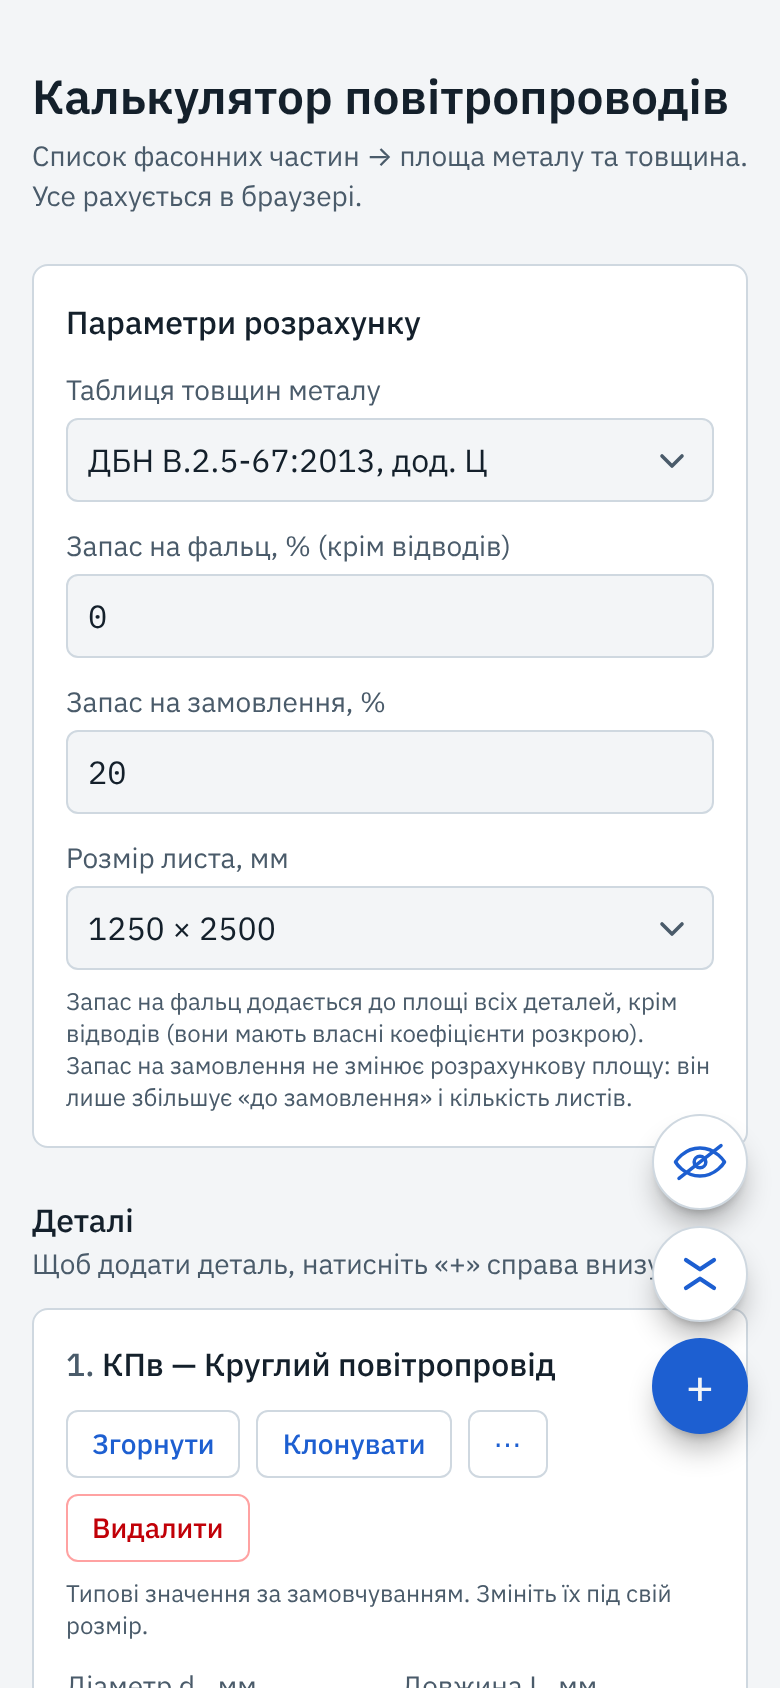
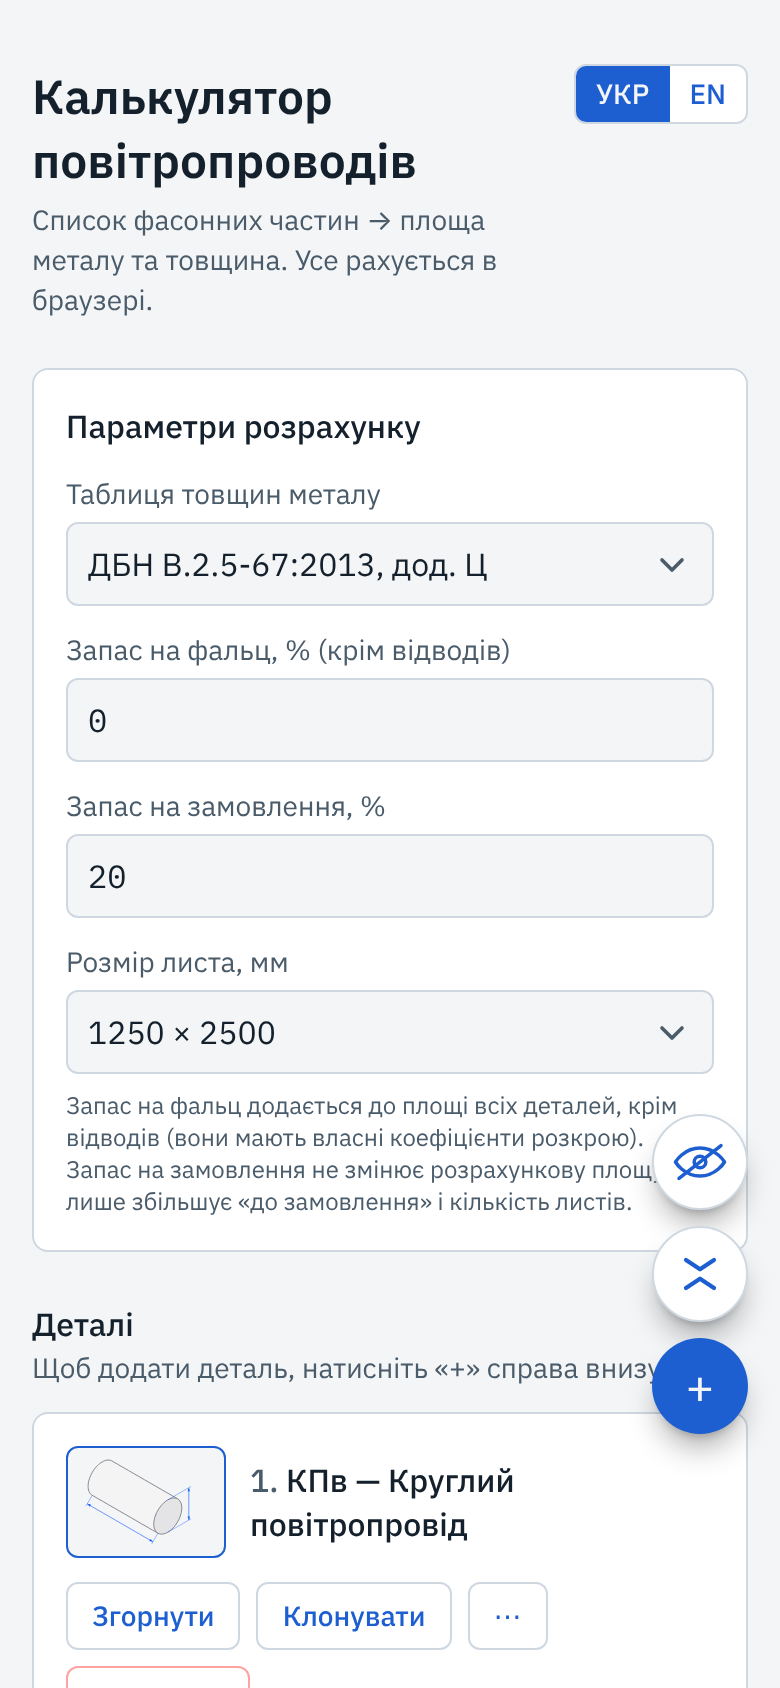
feat(ui): sketch thumbnail in the card opens the full isometric sketch
Claude-Session: https://claude.ai/code/session_0157kQd6LFDcKoh4utTUZLX6

diff --git a/src/components/calculator/FittingSketch.tsx b/src/components/calculator/FittingSketch.tsx
@@ -178,12 +178,12 @@ function arrow(tip: [number, number], from: [number, number]) {
 }
 
 /** Isometric view: faces turned to the viewer, hidden edges dashed, dimension lines with extension lines and arrows, the letter beside them. */
-function Iso({ kind, label }: { kind: FittingKind; label: string }) {
+function Iso({ kind, label, thumb = false }: { kind: FittingKind; label: string; thumb?: boolean }) {
   const { items, box } = isoDrawing(kind);
   const pts = (q: [number, number][]) => q.map(([x, y]) => `${x.toFixed(1)},${y.toFixed(1)}`).join(" ");
   return (
     // one scale for every kind: the width follows the drawing, so letters stay the same size
-    <svg viewBox={box.map((v) => v.toFixed(1)).join(" ")} role="img" aria-label={label} className="mx-auto h-auto max-w-full" style={{ width: `${(box[2] * isoScale).toFixed(0)}px` }}>
+    <svg viewBox={box.map((v) => v.toFixed(1)).join(" ")} role="img" aria-label={label} className={thumb ? "h-full w-full [&_text]:hidden" : "mx-auto h-auto max-w-full"} style={thumb ? undefined : { width: `${(box[2] * isoScale).toFixed(0)}px` }}>
       {items.map((i, k) => {
         switch (i.type) {
           case "face":
@@ -224,12 +224,12 @@ function Iso({ kind, label }: { kind: FittingKind; label: string }) {
   );
 }
 
-/** Schematic of a fitting: isometric, side view or cross-section ("в профіль"). Not to scale; labels sit beside the drawing, never on it. */
-export function FittingSketch({ kind, view = "side" }: { kind: FittingKind; view?: SketchView }) {
+/** Schematic of a fitting (`thumb`: the isometric view as a small preview without letters, fills its box): isometric, side view or cross-section ("в профіль"). Not to scale; labels sit beside the drawing, never on it. */
+export function FittingSketch({ kind, view = "side", thumb = false }: { kind: FittingKind; view?: SketchView; thumb?: boolean }) {
   const { dict } = useI18n();
   const viewTitle = { side: dict.sketch.sideTitle, profile: dict.sketch.profileTitle, iso: dict.sketch.isoTitle };
   const label = `${kindTitle(kind, dict)}: ${viewTitle[view]}`;
-  if (view === "iso") return <Iso kind={kind} label={label} />;
+  if (view === "iso") return <Iso kind={kind} label={label} thumb={thumb} />;
   return (
     <svg viewBox="0 0 300 184" role="img" aria-label={label} className="mx-auto h-auto w-full max-w-sm">
       {view === "side" ? <Side kind={kind} /> : <Profile kind={kind} />}

diff --git a/src/components/calculator/FittingCard.tsx b/src/components/calculator/FittingCard.tsx
@@ -57,7 +57,17 @@ export function FittingCard({ row, index, justAdded, showSketch, collapsed, onTo
   return (
     <div id={`fitting-${row.id}`} className={`${cardClass} col-span-full scroll-mt-16 ${justAdded ? "flash-card" : ""}`}>
       <div className="mb-4 flex flex-wrap items-start justify-between gap-3">
-        <h3 className="min-w-0 flex-1 text-base font-medium leading-snug">
+        <button
+          type="button"
+          className={`h-14 w-20 shrink-0 sm:h-16 sm:w-24 rounded-md border bg-background p-1 hover:border-accent ${showSketch ? "border-accent" : "border-line"}`}
+          onClick={onToggleSketch}
+          aria-expanded={showSketch}
+          aria-label={showSketch ? dict.sketch.hide : dict.sketch.show}
+          title={showSketch ? dict.sketch.hide : dict.sketch.show}
+        >
+          <FittingSketch kind={row.kind} view="iso" thumb />
+        </button>
+        <h3 className="min-w-0 flex-1 self-center text-base font-medium leading-snug">
           <span className="text-muted">{index + 1}.</span> {kindTitle(row.kind, dict)}
         </h3>
         <div className="flex max-w-full flex-wrap gap-2">
@@ -104,18 +114,12 @@ export function FittingCard({ row, index, justAdded, showSketch, collapsed, onTo
           </select>
         </label>
       </div>
-      <button
-        type="button"
-        className={`mt-4 ${buttonClass}`}
-        aria-expanded={showSketch}
-        onClick={onToggleSketch}
-      >
-        {showSketch ? dict.sketch.hide : dict.sketch.show}
-      </button>
       {showSketch && (
         <figure className="mt-4 flex flex-col rounded-md border border-line bg-background p-4">
-          <strong className="text-[13px] font-semibold uppercase tracking-wide text-muted">{dict.sketch.isoTitle}</strong>
-          <FittingSketch kind={row.kind} view="iso" />
+          <button type="button" className="flex flex-col text-left" onClick={onToggleSketch} aria-expanded={true} title={dict.sketch.hide}>
+            <strong className="text-[13px] font-semibold uppercase tracking-wide text-muted">{dict.sketch.isoTitle}</strong>
+            <FittingSketch kind={row.kind} view="iso" />
+          </button>
           <figcaption className="pt-2 text-sm leading-snug text-muted">
             {isoLegend(row.kind, dict).join("; ")}. {dict.sketch.note}
           </figcaption>

diff --git a/CLAUDE.md b/CLAUDE.md
@@ -8,7 +8,7 @@ Stack: Next.js (App Router), TypeScript strict, Vitest, Zod 4. Core logic is pla
 Engineering decisions: one ADR per file in `docs/adr/`. `docs/decisions.md` is the short index: the ADR list, known deviations from the Excel, the `TODO(confirm)` register and deferred work. The engineer's answers and the Excel template bugs: `docs/engineer-answers.md`.
 
 ## Status
-Stage 0 (fittings geometry, pressure drop) and stage 1 core (thickness table, elbow waste factor, air properties, Zod validation, `assembleSection`) are done and merged. Sheet list by thickness (metal m2 per thickness, `sheetList`) is done. First UI is done (split into focused components + `useCalculator` hook): one client-side calculator page (Ukrainian by default, English via the УКР / EN switch in the header, remembered in `localStorage`, see ADR 0039), no backend. Deployed on Vercel (owner's account, Hobby plan, auto-deploy from `main`, previews per PR); Vercel Web Analytics is wired in (`<Analytics />` in `src/app/layout.tsx`, package `@vercel/analytics`, the owner enables it in the Vercel dashboard). Elbow radius is now suggested from the size in the form (round centre-line R = 1.0 D, rect inner R = 0.5 W, `config.elbowRadius`, `TODO(confirm)`; the field follows the size until the user types over it). During the beta the page opens with one example row of every fitting kind (`form/sample-rows.ts`) and the sketches open by default. Each fitting card has a "Показати схему" button that toggles one isometric sketch of its kind (inline SVG, line style, labels beside the drawing, a legend names the letters, see ADR 0033; the older side view and cross-section stay in the code, unused by the card). Inputs in a row stay aligned when a label wraps (the input is pushed to the bottom of its field). Fittings are added from an always-visible side panel (desktop: sticky rail of kind groups with a list beside it; phone: quick buttons and a bottom sheet with search, see ADR 0031); a card shows its kind as a title and changes it through a «⋯» menu. Input warnings (aspect ratio, size over 2000 mm, large elbow radius) are done. Tees and crosses (metal area, 8 kinds, see ADR 0021) are done. Standalone branch-in collars (врізки Квр, Пвр: `roundTap`, `rectTap`, metal area only, see ADR 0026) are done. The engineer's 2026-10-19 answers are in: ДБН thickness table by default (engineer's table selectable), user-set seam allowance for non-elbows, reducer friction by the mean diameter, order margin (default 20 %), sheet size and sheet count (settings block in the UI). The UI shows areas only (owner, 2026-10-19): pressure losses, centerline length, air parameters, airflow and zeta are hidden, the core and its tests are unchanged. The README is the portfolio page (English, with a Ukrainian copy `README.uk.md` and language links at the top; keep both in sync): what the tool does, live link, screenshots in `docs/images/` (taken from a production build at 1440 x 900 and a 390 px phone), supported fittings, how the numbers are verified, stack and commands; refresh the screenshots when the UI changes visibly (last retaken 2026-11-03, with insulation and prices). The area formulas were cross-checked against ВСН 353-86, ДСТУ Б Д.2.4-15:2014 and online calculators (2026-10-27); the rect-to-round transition is now the exact layout (ADR 0035), the other kinds agree or differ only by documented choices (slant instead of the axial length, smooth instead of segmented round elbows). Insulation area is in as a beta (ADR 0037): one material per row from the Excel's six, outer surface = metal geometry with each size + 2t, elbows with the cutting coefficient, caps the end plate only; per-row column, a list per material and a total. Price is in (ADR 0038): the user types UAH per m² for each thickness in the metal list and each material in the insulation list (empty = no price, nothing preset); metal is priced on the area to order (margin included), insulation on its computed area; cost per line and totals (metal, insulation, all), unpriced lines are counted, not free. Next, in the engineer's order: aerodynamics as a separate mode; XLSX export waits for the engineer's reference files.
+Stage 0 (fittings geometry, pressure drop) and stage 1 core (thickness table, elbow waste factor, air properties, Zod validation, `assembleSection`) are done and merged. Sheet list by thickness (metal m2 per thickness, `sheetList`) is done. First UI is done (split into focused components + `useCalculator` hook): one client-side calculator page (Ukrainian by default, English via the УКР / EN switch in the header, remembered in `localStorage`, see ADR 0039), no backend. Deployed on Vercel (owner's account, Hobby plan, auto-deploy from `main`, previews per PR); Vercel Web Analytics is wired in (`<Analytics />` in `src/app/layout.tsx`, package `@vercel/analytics`, the owner enables it in the Vercel dashboard). Elbow radius is now suggested from the size in the form (round centre-line R = 1.0 D, rect inner R = 0.5 W, `config.elbowRadius`, `TODO(confirm)`; the field follows the size until the user types over it). During the beta the page opens with one example row of every fitting kind (`form/sample-rows.ts`) and the sketches open by default. Each fitting card starts with a thumbnail of its isometric sketch; a click opens the full sketch inside the card and a second click closes it (ADR 0040; it replaced the "Показати схему" button); the sketch is an inline SVG (line style, labels beside the drawing, a legend names the letters, see ADR 0033; the older side view and cross-section stay in the code, unused by the card). Inputs in a row stay aligned when a label wraps (the input is pushed to the bottom of its field). Fittings are added from an always-visible side panel (desktop: sticky rail of kind groups with a list beside it; phone: quick buttons and a bottom sheet with search, see ADR 0031); a card shows its kind as a title and changes it through a «⋯» menu. Input warnings (aspect ratio, size over 2000 mm, large elbow radius) are done. Tees and crosses (metal area, 8 kinds, see ADR 0021) are done. Standalone branch-in collars (врізки Квр, Пвр: `roundTap`, `rectTap`, metal area only, see ADR 0026) are done. The engineer's 2026-10-19 answers are in: ДБН thickness table by default (engineer's table selectable), user-set seam allowance for non-elbows, reducer friction by the mean diameter, order margin (default 20 %), sheet size and sheet count (settings block in the UI). The UI shows areas only (owner, 2026-10-19): pressure losses, centerline length, air parameters, airflow and zeta are hidden, the core and its tests are unchanged. The README is the portfolio page (English, with a Ukrainian copy `README.uk.md` and language links at the top; keep both in sync): what the tool does, live link, screenshots in `docs/images/` (taken from a production build at 1440 x 900 and a 390 px phone), supported fittings, how the numbers are verified, stack and commands; refresh the screenshots when the UI changes visibly (last retaken 2026-11-07, with the sketch thumbnails). The area formulas were cross-checked against ВСН 353-86, ДСТУ Б Д.2.4-15:2014 and online calculators (2026-10-27); the rect-to-round transition is now the exact layout (ADR 0035), the other kinds agree or differ only by documented choices (slant instead of the axial length, smooth instead of segmented round elbows). Insulation area is in as a beta (ADR 0037): one material per row from the Excel's six, outer surface = metal geometry with each size + 2t, elbows with the cutting coefficient, caps the end plate only; per-row column, a list per material and a total. Price is in (ADR 0038): the user types UAH per m² for each thickness in the metal list and each material in the insulation list (empty = no price, nothing preset); metal is priced on the area to order (margin included), insulation on its computed area; cost per line and totals (metal, insulation, all), unpriced lines are counted, not free. Next, in the engineer's order: aerodynamics as a separate mode; XLSX export waits for the engineer's reference files.
 
 ## Code map (`src/lib/`)
 - `calc/units.ts` - `mmToM`, `m3hToM3s`, `degToRad`; the only place that converts.
@@ -32,7 +32,7 @@ Stage 0 (fittings geometry, pressure drop) and stage 1 core (thickness table, el
 - `src/components/i18n.tsx` - `I18nProvider` / `useI18n()` -> `{ lang, dict, fmt, setLang }` (language from `localStorage` via `useSyncExternalStore`, server renders Ukrainian; keeps `<html lang>` and the tab title in step). Components take `dict` and `fmt` from the hook, never import `uk` directly; plain helpers take the dictionary as a parameter.
 - `src/components/Calculator.tsx` - the page (client component): wraps the blocks in `I18nProvider`, header with `LangSwitch`, no logic. `src/app/page.tsx` only renders it.
 - `form/kind-groups.ts` - `kindGroups` (7 groups of kinds for the side panel), `quickKinds`, `insertIndex` (where a new row of a kind goes), `searchKinds`.
-- `src/components/calculator/` - the blocks (new: `KindPalette` = `KindRail` + `Sheet`, `PhoneActions` = the phone's round buttons at the right edge (add menu, view toggles, to top), `KindGlyph`, `KindMenu` change-kind menu, `useDismiss`, `useCardView` = sketch/fold view state shared by the list and the rail buttons): `useCalculator.ts` (hook: rows and settings state, `calculate` fed with fixed hidden flow and air since losses are not shown, row actions), `SettingsPanel`, `FittingList` (view state only; rows of one kind are grouped into a titled section when a kind repeats; per-card sketch open / folded, the global «show/hide all schemes» and «fold/expand all» buttons; folded cards are tiles in a 1-3 column grid, open cards span the full width) > `FittingCard` (one row, or a tile when folded; the button opens `FittingSketch` with `view="iso"`; `iso-sketch.ts` = `isoDrawing(kind)`: isometric projection of simple solids into faces, edges and dimension items with a fitted viewBox; `sketch-spec.ts` maps kind -> shape, round/rect ends and the legends incl. `isoLegend`; the side / profile views remain), `ResultsTable` (with the insulation column), `Totals` (areas and costs), `SheetList` and `InsulationList` (each with a price input and a cost column, `PriceInput`), shared `TextField`, `ErrorList` (also `WarningList`), `format.ts` (`fmt`, `rowTitle`), `styles.ts` (Tailwind class strings). Components take props only; calculation stays in `src/lib`.
+- `src/components/calculator/` - the blocks (new: `KindPalette` = `KindRail` + `Sheet`, `PhoneActions` = the phone's round buttons at the right edge (add menu, view toggles, to top), `KindGlyph`, `KindMenu` change-kind menu, `useDismiss`, `useCardView` = sketch/fold view state shared by the list and the rail buttons): `useCalculator.ts` (hook: rows and settings state, `calculate` fed with fixed hidden flow and air since losses are not shown, row actions), `SettingsPanel`, `FittingList` (view state only; rows of one kind are grouped into a titled section when a kind repeats; per-card sketch open / folded, the global «show/hide all schemes» and «fold/expand all» buttons; folded cards are tiles in a 1-3 column grid, open cards span the full width) > `FittingCard` (one row, or a tile when folded; the header thumbnail (`FittingSketch` `thumb`) opens `FittingSketch` with `view="iso"`; `iso-sketch.ts` = `isoDrawing(kind)`: isometric projection of simple solids into faces, edges and dimension items with a fitted viewBox; `sketch-spec.ts` maps kind -> shape, round/rect ends and the legends incl. `isoLegend`; the side / profile views remain), `ResultsTable` (with the insulation column), `Totals` (areas and costs), `SheetList` and `InsulationList` (each with a price input and a cost column, `PriceInput`), shared `TextField`, `ErrorList` (also `WarningList`), `format.ts` (`fmt`, `rowTitle`), `styles.ts` (Tailwind class strings). Components take props only; calculation stays in `src/lib`.
 - `validation/` - `createSchemas(config)`, `fittingSchema`, `ductSectionSchema`, `airInputSchema`, `sheetListItemSchema` (`{ fitting, quantity }`), `sheetListSchema` (array of those), `validate`. Errors are stable codes (`codes.ts`), never human text.
 
 ## Commands

diff --git a/README.uk.md b/README.uk.md
@@ -18,7 +18,7 @@
 - **Площа утеплювача (бета).** Для кожної позиції обирається матеріал утеплювача (шість з таблиці інженера); зовнішня поверхня шару = геометрія металу, де кожен розмір збільшено на дві товщини шару. Площа кожної позиції, відомість за матеріалами і підсумок. Модель буде уточнено з інженером.
 - **Оцінка вартості.** Введіть власну ціну за м² (грн) для кожної товщини металу та матеріалу утеплювача: вартість кожного рядка і разом. Метал рахується від площі до замовлення. Цін за замовчуванням немає.
 - **Попередження щодо введених даних.** Незвичні, але допустимі значення (співвідношення сторін від 3 і понад 6,3, сторона понад 2000 мм, великий радіус відводу) позначаються і ніколи не змінюються.
-- **Схеми.** Кожна картка деталі показує ізометричну схему з літерами розмірів, які використовуються у формі.
+- **Схеми.** Кожна картка деталі показує мініатюру ізометричної схеми; клік відкриває повну схему з літерами розмірів, які використовуються у формі.
 
 | Деталі, згорнуті в плитки, з таблицею результатів | Підсумки, відомості металу та утеплювача з цінами |
 |---|---|

diff --git a/docs/adr/0040-sketch-thumbnail-in-the-card.md b/docs/adr/0040-sketch-thumbnail-in-the-card.md
@@ -1,0 +1,16 @@
+# 0040. Sketch thumbnail in the card
+
+- Status: Accepted
+- Date: 2026-11-07
+- Source: engineer via owner, 2026-11-06 ("изометрию по миниатюрной версии, по клику показывается большая"); owner, 2026-11-07 ("развернуть все оставляем, раскрывается прямо в карточке")
+
+## Context
+Each card opened its isometric sketch (ADR 0033) with a text button «Показати схему» under the fields (ADR 0029, 0032). The engineer suggested showing a small preview instead, so the kind is recognisable at a glance, with the full sketch one click away.
+
+## Decision
+- The card header starts with a thumbnail of the isometric sketch (`FittingSketch` with `thumb`: same drawing, letters hidden, fills an 80 x 56 px box, 96 x 64 px from `sm`). The text button is gone.
+- A click on the thumbnail opens the full sketch inside the card, below the fields, as before; a second click, or a click on the large sketch, closes it. The thumbnail keeps the accent border while the sketch is open.
+- The side panel's «Показати / Сховати всі схеми» still opens and closes all large sketches. Folded tiles show no thumbnail.
+
+## Consequences
+This replaces the per-card button of ADR 0029 / 0032 only; the beta start state (sketches open, ADR 0030) is unchanged. `dict.sketch.show` / `hide` are now the thumbnail's label and tooltip.

diff --git a/README.md b/README.md
@@ -18,7 +18,7 @@ The interface is in Ukrainian by default, with an English version: the УКР / 
 - **Insulation area (beta).** Pick an insulation material per item (six from the engineer's spreadsheet); the outer surface of the layer is the metal geometry with each size increased by twice the layer thickness. Area per item, a list per material and a total. The model will be refined with the engineer.
 - **Cost estimate.** Enter your own price per m² (UAH) for each sheet thickness and insulation material: cost per line and in total. Metal is priced on the area to order. No prices are preset.
 - **Input warnings.** Unusual but valid input (aspect ratio of 3 and above, over 6.3, a side over 2000 mm, a large elbow radius) is flagged and never changed.
-- **Sketches.** Each fitting card shows an isometric sketch with the dimension letters used in the form.
+- **Sketches.** Each fitting card shows a thumbnail of its isometric sketch; a click opens the full sketch with the dimension letters used in the form.
 
 | Fittings folded into tiles, with the results table | Totals, metal and insulation lists with prices |
 |---|---|

diff --git a/docs/decisions.md b/docs/decisions.md
@@ -54,6 +54,7 @@ Companion to `CLAUDE.md`: why the core looks the way it does, and what is still 
 | [0037](adr/0037-insulation-area-beta.md) | Insulation area (beta): outer surface, sizes + 2t | 2026-11-03 | Accepted (beta) |
 | [0038](adr/0038-price-per-square-metre.md) | Price: user-entered UAH per m² per thickness and material | 2026-11-03 | Accepted |
 | [0039](adr/0039-english-interface.md) | English interface with a УКР / EN switch | 2026-11-05 | Accepted |
+| [0040](adr/0040-sketch-thumbnail-in-the-card.md) | Sketch thumbnail in the card opens the full sketch | 2026-11-07 | Accepted |
 
 ## Known deviations from the Excel
 Deliberate; the Excel is a reference, not the truth ([0001](adr/0001-excel-is-a-reference-not-the-truth.md)). The first two are rect elbows.
